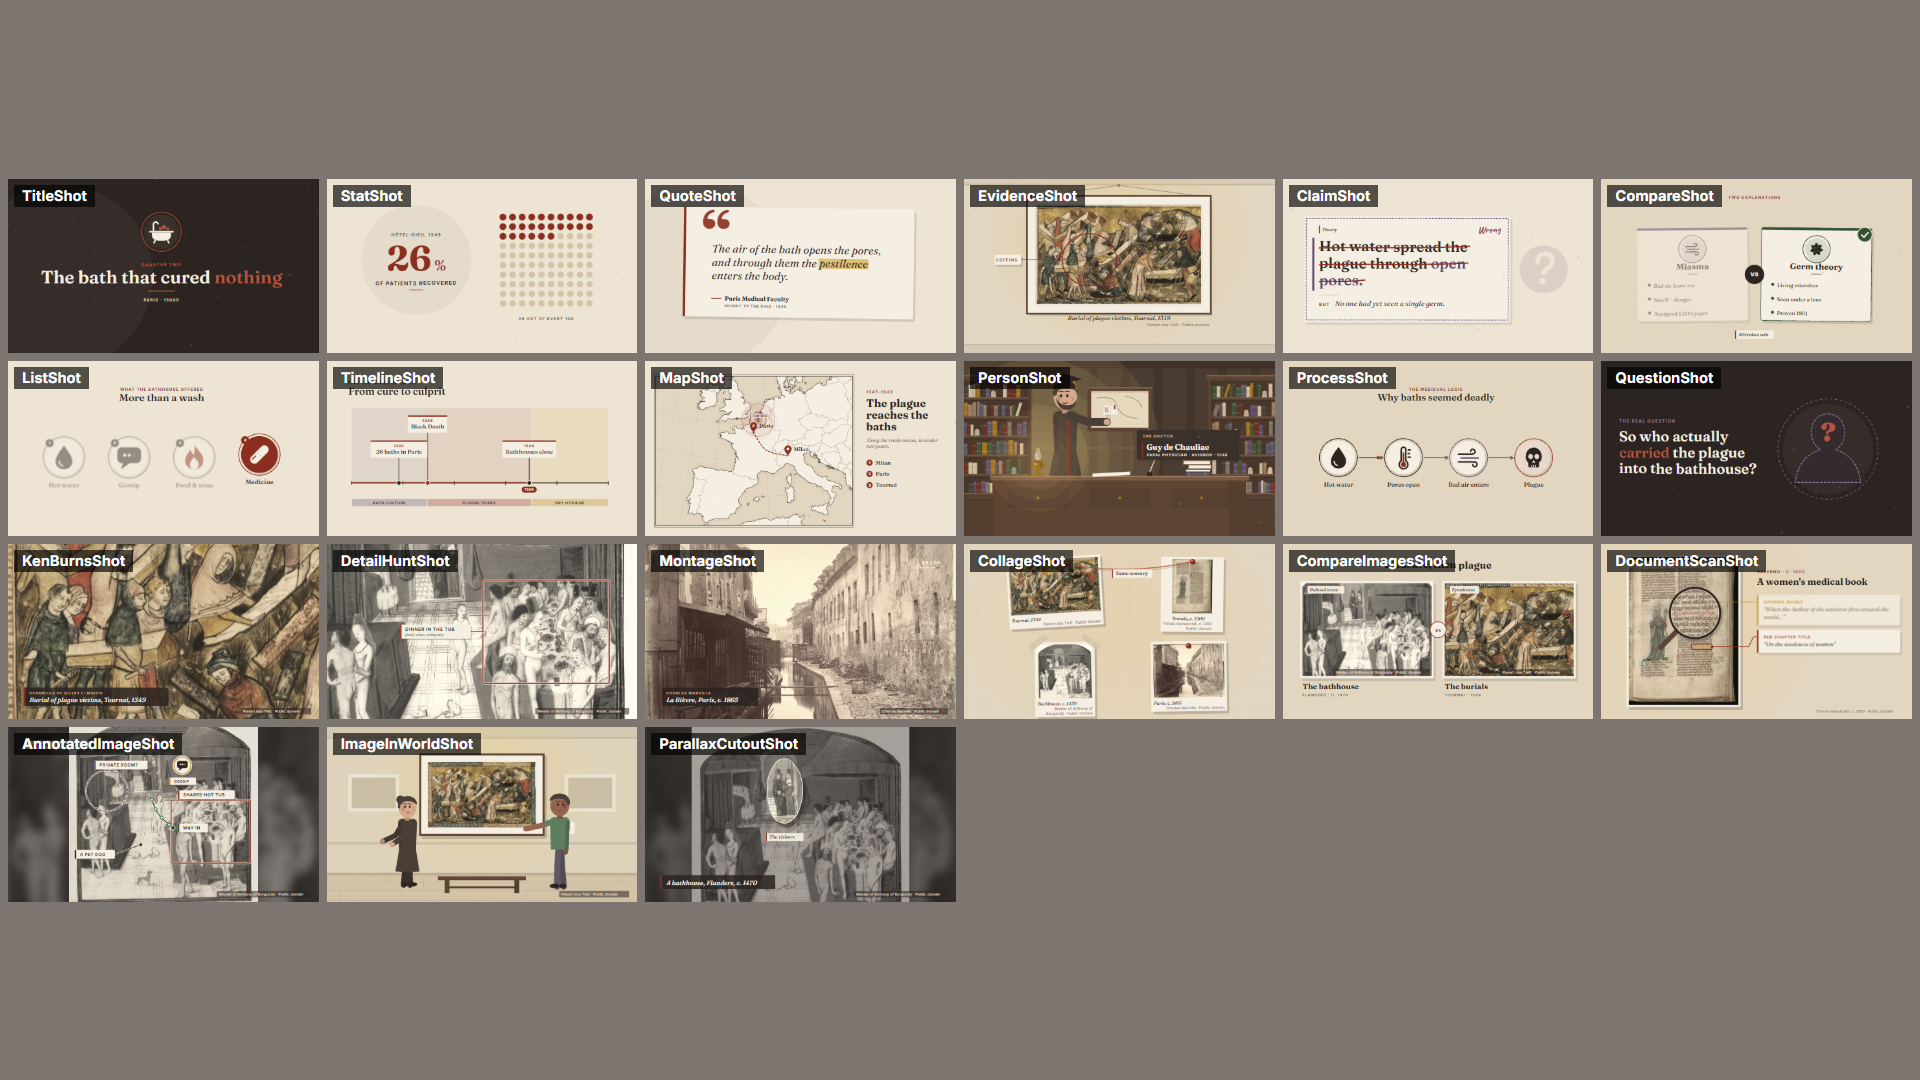
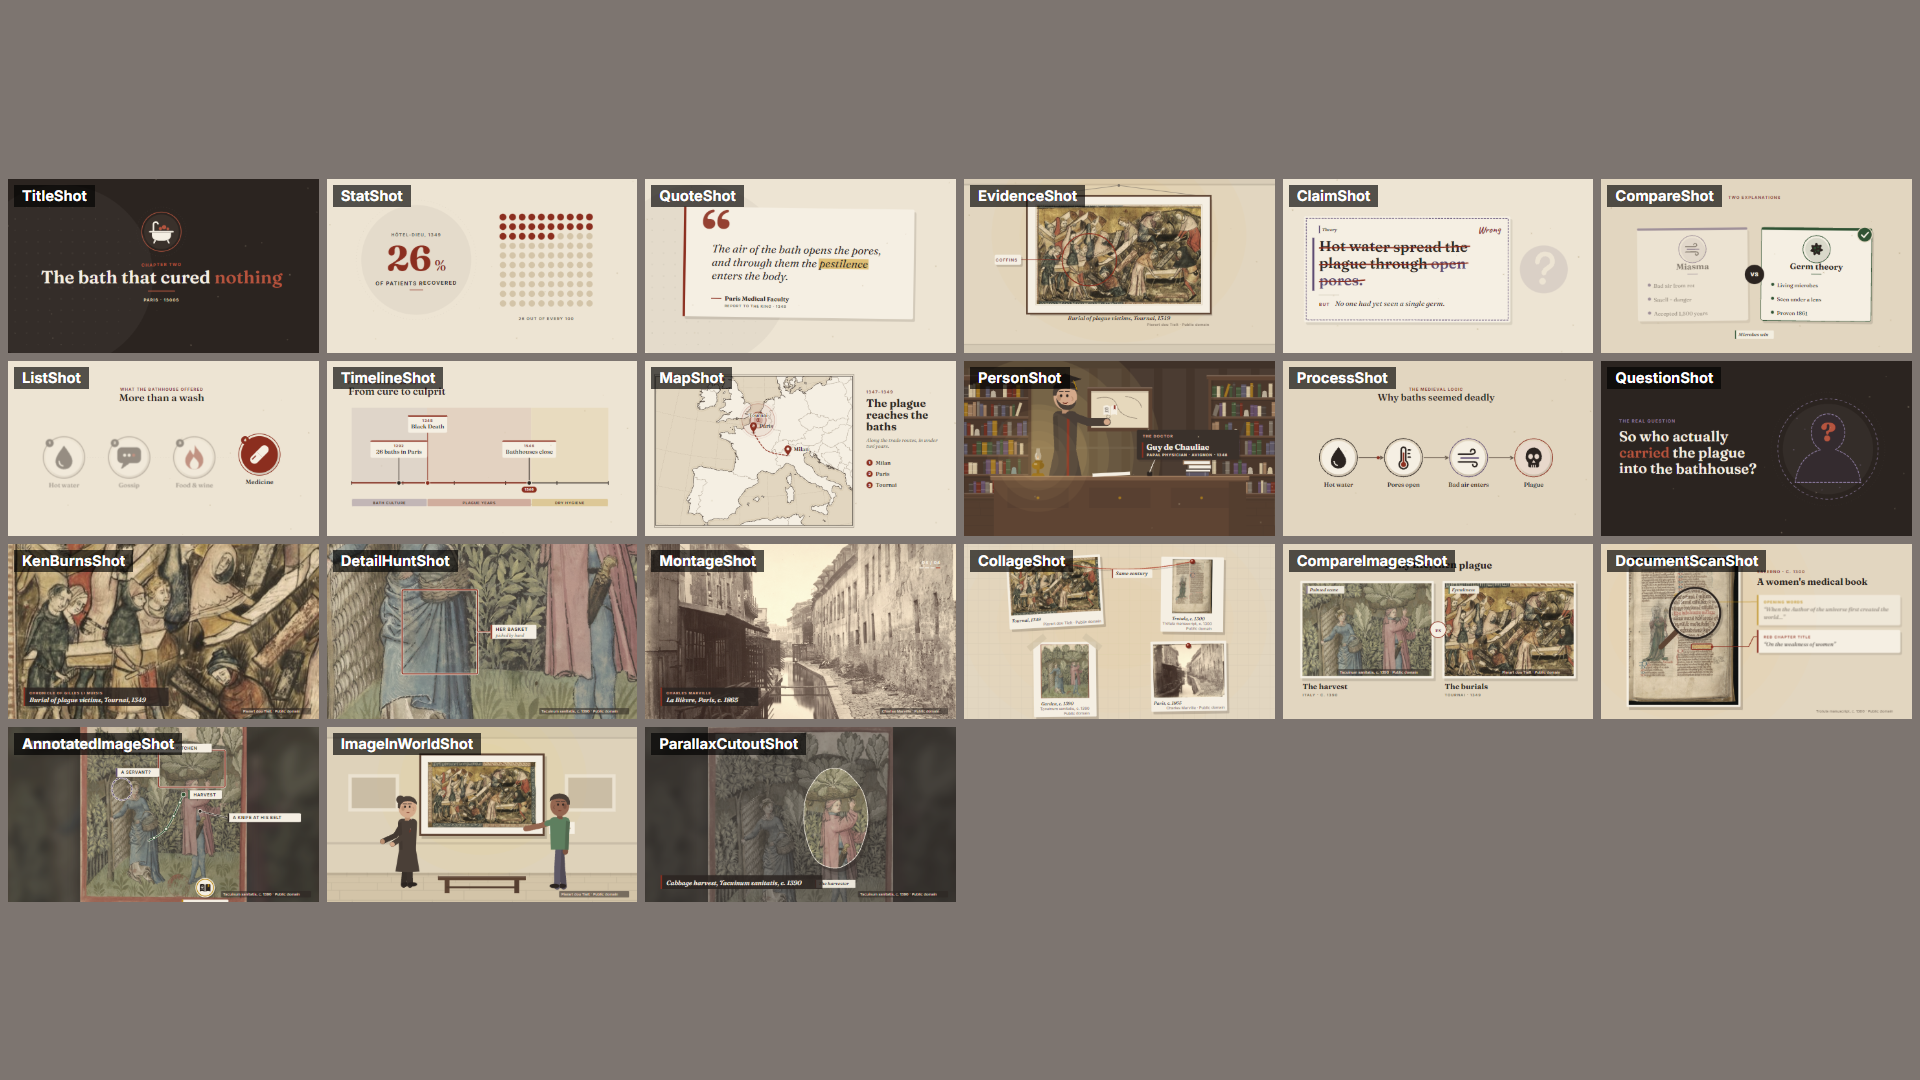
YouTube-safe reference pictures: replace nude bathhouse demo image with a clothed Tacuinum sanitatis scene; showcase teaches red pen + yellow marker; example brief notes the safety check

diff --git a/src/gallery/pages/archival.tsx b/src/gallery/pages/archival.tsx
@@ -16,7 +16,8 @@ import {
 // page "archival2" (same page shifted by 28 s: stills at 3.5 and 7.5 there). Test images: public/test-dinos/img/.
 const S = 'test-dinos';
 const TOURNAI = {src: 'img/tournai.jpg', aspect: 801 / 482, credit: 'Pierart dou Tielt · Public domain'};
-const BATH = {src: 'img/bathhouse.jpg', aspect: 1690 / 1653, credit: 'Master of Anthony of Burgundy · Public domain'};
+// square-ish test image (exercises the framed full-height path) — YouTube-safe: clothed figures only
+const HARV = {src: 'img/harvest.jpg', aspect: 2613 / 2905, credit: 'Tacuinum sanitatis, c. 1390 · Public domain'};
 const MS = {src: 'img/manuscript.jpg', aspect: 1920 / 2578, credit: 'Trotula manuscript, c. 1300 · Public domain'};
 const MARV = {src: 'img/marville.jpg', aspect: 1920 / 1455, credit: 'Charles Marville · Public domain'};
 
@@ -41,10 +42,10 @@ const SHOTS: ((t: number, a: number, b: number) => React.ReactNode)[] = [
       a={a}
       b={b}
       slug={S}
-      {...BATH}
+      {...HARV}
       details={[
-        {rx: 0.42, ry: 0.26, rw: 0.17, rh: 0.25, label: 'Guests arrive', note: 'dressed — for now', at: a + 0.2, kind: 'ink'},
-        {rx: 0.73, ry: 0.5, rw: 0.36, rh: 0.3, label: 'Dinner in the tub', note: 'food, wine, company', at: a + 1.8, kind: 'signal', shape: 'box'},
+        {rx: 0.67, ry: 0.28, rw: 0.4, rh: 0.2, label: 'Cabbages on his head', note: 'the harvest of the day', at: a + 0.2, kind: 'ink'},
+        {rx: 0.41, ry: 0.67, rw: 0.14, rh: 0.14, label: 'Her basket', note: 'picked by hand', at: a + 1.8, kind: 'signal', shape: 'box'},
       ]}
       returnAt={false}
     />
@@ -60,7 +61,7 @@ const SHOTS: ((t: number, a: number, b: number) => React.ReactNode)[] = [
       items={[
         {...TOURNAI},
         {...MS, from: [0.5, 0.3, 1.0], to: [0.5, 0.36, 1.1]},
-        {...BATH},
+        {...HARV},
         {...MARV, caption: 'La Bièvre, Paris, c. 1865', kicker: 'Charles Marville'},
       ]}
       cuts={[a, a + 0.8, a + 1.6, a + 2.4]}
@@ -75,7 +76,7 @@ const SHOTS: ((t: number, a: number, b: number) => React.ReactNode)[] = [
       items={[
         {...TOURNAI, label: 'Tournai, 1349'},
         {...MS, label: 'Trotula, c. 1300'},
-        {...BATH, label: 'Bathhouse, c. 1470'},
+        {...HARV, label: 'Garden, c. 1390'},
         {...MARV, label: 'Paris, c. 1865'},
       ]}
       gap={0.3}
@@ -88,8 +89,8 @@ const SHOTS: ((t: number, a: number, b: number) => React.ReactNode)[] = [
       a={a}
       b={b}
       slug={S}
-      title="Pleasure, then plague"
-      left={{...BATH, label: 'The bathhouse', sub: 'Flanders · c. 1470', tag: {text: 'Painted scene', kind: 'theory'}}}
+      title="Daily life, then plague"
+      left={{...HARV, label: 'The harvest', sub: 'Italy · c. 1390', tag: {text: 'Painted scene', kind: 'theory'}}}
       right={{...TOURNAI, label: 'The burials', sub: 'Tournai · 1349', tag: {text: 'Eyewitness', kind: 'confirmed'}}}
       at={a + 0.1}
       rightAt={a + 0.7}
@@ -116,16 +117,16 @@ const SHOTS: ((t: number, a: number, b: number) => React.ReactNode)[] = [
       a={a}
       b={b}
       slug={S}
-      {...BATH}
-      kicker="Inside a bathhouse"
+      {...HARV}
+      kicker="A medieval health handbook"
       from={[0.5, 0.55, 1.0]}
       to={[0.5, 0.55, 1.06]}
       overlays={[
-        {kind: 'outline', rx: 0.75, ry: 0.62, rw: 0.42, rh: 0.34, shape: 'box', label: 'Shared hot tub', sem: 'signal', at: a + 0.3},
-        {kind: 'outline', rx: 0.2, ry: 0.4, rw: 0.22, rh: 0.22, dashed: true, label: 'Private room?', at: a + 0.8},
-        {kind: 'flow', points: [[0.43, 0.42], [0.47, 0.52], [0.55, 0.6]], label: 'Way in', sem: 'evidence', at: a + 1.2, dur: 0.9},
-        {kind: 'icon', rx: 0.6, ry: 0.26, icon: 'speech', label: 'Gossip', sem: 'caution', at: a + 1.7},
-        {kind: 'label', rx: 0.38, ry: 0.69, text: 'A pet dog', sem: 'ink', at: a + 2.0, dx: -160, dy: 60},
+        {kind: 'outline', rx: 0.67, ry: 0.28, rw: 0.4, rh: 0.2, shape: 'box', label: 'Cabbages for the kitchen', sem: 'signal', at: a + 0.3},
+        {kind: 'outline', rx: 0.25, ry: 0.39, rw: 0.12, rh: 0.12, dashed: true, label: 'A servant?', at: a + 0.8},
+        {kind: 'flow', points: [[0.41, 0.67], [0.52, 0.6], [0.62, 0.42]], label: 'Harvest', sem: 'evidence', at: a + 1.2, dur: 0.9},
+        {kind: 'icon', rx: 0.75, ry: 0.92, icon: 'book', label: 'Library stamp', sem: 'caution', at: a + 1.7},
+        {kind: 'label', rx: 0.72, ry: 0.51, text: 'A knife at his belt', sem: 'ink', at: a + 2.0, dx: 170, dy: 40},
       ]}
     />
   ),
@@ -136,13 +137,13 @@ const SHOTS: ((t: number, a: number, b: number) => React.ReactNode)[] = [
       a={a}
       b={b}
       slug={S}
-      {...BATH}
-      cut={{rx: 0.355, ry: 0.15, rw: 0.15, rh: 0.28, shape: 'ellipse'}}
-      from={[0.4, 0.3, 1.15]}
-      to={[0.52, 0.34, 1.22]}
-      label={{text: 'The visitors', kind: 'signal'}}
+      {...HARV}
+      cut={{rx: 0.52, ry: 0.2, rw: 0.32, rh: 0.45, shape: 'ellipse'}}
+      from={[0.6, 0.4, 1.1]}
+      to={[0.66, 0.42, 1.18]}
+      label={{text: 'The harvester', kind: 'signal'}}
       at={a + 0.6}
-      caption="A bathhouse, Flanders, c. 1470"
+      caption="Cabbage harvest, Tacuinum sanitatis, c. 1390"
     />
   ),
 ];

diff --git a/src/gallery/pages/text.tsx b/src/gallery/pages/text.tsx
@@ -1,8 +1,9 @@
 import React from 'react';
 import {Stage} from '../../kit/stage';
-import {C} from '../../kit/theme';
+import {C, FONT_SERIF} from '../../kit/theme';
 import {ramp} from '../../kit/anim';
-import {Circled, HandNote, Headline, Highlight, Kicker, NameTag, Para, Stamp, Stat, Tag, TitleCard, Underline} from '../../kit/text';
+import {Circled, HandNote, Headline, Highlight, Kicker, NameTag, RedPen, Stamp, Stat, Tag, TitleCard, Underline, textW} from '../../kit/text';
+import {RichText} from '../../kit/templates';
 
 // Typography showcase. Everything settles by t = 3 s.
 export const Text: React.FC<{t: number}> = ({t}) => (
@@ -15,9 +16,14 @@ export const Text: React.FC<{t: number}> = ({t}) => (
     <Tag x={120} y={410} text="Confirmed" kind="confirmed" p={ramp(t, 0.5, 1.5)} />
     <Tag x={380} y={410} text="Theory" kind="theory" p={ramp(t, 0.7, 1.7)} />
     <Tag x={590} y={410} text="Debated" kind="caution" p={ramp(t, 0.9, 1.9)} />
-    <Para x={120} y={480} w={680} p={ramp(t, 0.8, 1.8)} size={34} text="Physicians prescribed baths for fevers, joint pain and headaches, adjusting the temperature." />
+    {/* key words get the yellow marker (preferred over plain paragraphs) */}
+    <RichText x={120} y={468} w={700} h={170} p={ramp(t, 0.8, 1.8)} size={34} weight={500} mode="fade" text="Physicians prescribed baths for fevers, joint pain and headaches, adjusting the temperature." mark={['fevers', 'joint', 'pain', 'headaches']} markP={ramp(t, 1.8, 2.6)} />
     <NameTag x={120} y={720} name="Ibn al-Khatib" sub="Physician · Granada · 1349" p={ramp(t, 1, 2)} />
-    <Stamp x={1500} y={170} text="Mostly wrong" p={ramp(t, 1.2, 1.7)} />
+    {/* Binly default verdict: the editor's red pen */}
+    <text x={1150} y={150} fontFamily={FONT_SERIF} fontWeight={600} fontSize={54} fill={C.ink} opacity={ramp(t, 0.2, 0.8)}>Baths spread the plague.</text>
+    <RedPen lines={[{x: 1150, y: 137, w: textW('Baths spread the plague.', 54, 'serif') * 0.98}]} note="mostly wrong!" noteX={1420} noteY={222} p={ramp(t, 1.0, 2.2)} />
+    {/* rubber stamp: only for the rare biggest verdict */}
+    <Stamp x={720} y={735} text="Rare" size={30} rot={-8} p={ramp(t, 2.4, 2.8)} />
     <Stat x={1440} y={470} value="0.061" unit="%" label="of all surgeries" p={ramp(t, 0.5, 2.5)} color={C.oxblood} />
     <Stat x={1440} y={760} value="505,000" label="intraocular surgeries" p={ramp(t, 0.5, 2.5)} size={130} />
     <Circled x={1450} y={400} rx={330} ry={108} p={ramp(t, 2.2, 3)} />

diff --git a/docs/KIT.md b/docs/KIT.md
@@ -124,8 +124,8 @@ type Detail = {rx, ry (centre), rw, rh, label, note?, at?, kind?: Sem, shape?: '
 <DetailHuntShot {...base} slug src aspect? details: Detail[] returnAt?: number|false (default b−1.4) kicker? caption? credit? at? />
 ```
 ```tsx
-<DetailHuntShot t={t} a={T.d} b={T.e} slug="medieval-baths" src="img/bathhouse.jpg" aspect={1690/1653}
-  details={[{rx:0.42, ry:0.26, rw:0.17, rh:0.25, label:'Guests arrive', at:T.door}, {rx:0.73, ry:0.5, rw:0.36, rh:0.3, label:'Dinner in the tub', shape:'box', at:T.tub}]}/>
+<DetailHuntShot t={t} a={T.d} b={T.e} slug="medieval-baths" src="img/harvest.jpg" aspect={2613/2905}
+  details={[{rx:0.67, ry:0.28, rw:0.4, rh:0.2, label:'Cabbages on his head', at:T.basket}, {rx:0.41, ry:0.67, rw:0.14, rh:0.14, label:'Her basket', shape:'box', at:T.pick}]}/>
 ```
 Allow ≥ 1.6 s per detail (punch 1 s, mark +0.6, label +0.9).
 
@@ -138,7 +138,7 @@ type MontageItem = {src, aspect?, credit?, caption?, kicker?, from?: Focus, to?:
 ```
 ```tsx
 <MontageShot t={t} a={T.m} b={T.n} slug="medieval-baths" transition="cut" cuts={[T.m, T.b1, T.b2, T.b3]}
-  items={[{src:'img/tournai.jpg', aspect:801/482, credit:'…'}, {src:'img/bath.jpg', aspect:1.02, credit:'…', caption:'Bathhouse, c. 1470'}]}/>
+  items={[{src:'img/tournai.jpg', aspect:801/482, credit:'…'}, {src:'img/harvest.jpg', aspect:2613/2905, credit:'…', caption:'Cabbage harvest, c. 1390'}]}/>
 ```
 
 ## CollageShot
@@ -192,7 +192,7 @@ type Overlay =
 <AnnotatedImageShot {...base} slug src aspect? overlays from? to? dim?=0.12 kicker? caption? credit? at? gap?=0.5 />
 ```
 ```tsx
-<AnnotatedImageShot t={t} a={T.a} b={T.b} slug="medieval-baths" src="img/bath.jpg" aspect={1.02} overlays={[
+<AnnotatedImageShot t={t} a={T.a} b={T.b} slug="medieval-baths" src="img/harvest.jpg" aspect={2613/2905} overlays={[
   {kind:'outline', rx:0.75, ry:0.62, rw:0.42, rh:0.34, shape:'box', label:'Shared hot tub', at:T.tub},
   {kind:'flow', points:[[0.43,0.42],[0.47,0.52],[0.55,0.6]], label:'Way in', sem:'evidence', at:T.walk}]}/>
 ```
@@ -219,7 +219,7 @@ type Cut = {rx, ry (TOP-LEFT), rw, rh, shape?: 'rect'|'ellipse'} | {points: [rx,
   label?: {text, kind?, at?} kicker? caption? credit? at? (default a+0.5) />
 ```
 ```tsx
-<ParallaxCutoutShot t={t} a={T.p} b={T.q} slug="medieval-baths" src="img/bath.jpg" aspect={1.02} from={[0.4,0.3,1.15]} to={[0.52,0.34,1.22]}
+<ParallaxCutoutShot t={t} a={T.p} b={T.q} slug="medieval-baths" src="img/harvest.jpg" aspect={2613/2905} from={[0.4,0.3,1.15]} to={[0.52,0.34,1.22]}
   cut={{rx:0.355, ry:0.15, rw:0.15, rh:0.28, shape:'ellipse'}} label={{text:'The visitors'}} at={T.lift}/>
 ```
 

diff --git a/docs/kit/archival.md b/docs/kit/archival.md
@@ -33,8 +33,8 @@ type Detail = {rx, ry (centre), rw, rh, label, note?, at?, kind?: Sem, shape?: '
 <DetailHuntShot {...base} slug src aspect? details: Detail[] returnAt?: number|false (default b−1.4) kicker? caption? credit? at? />
 ```
 ```tsx
-<DetailHuntShot t={t} a={T.d} b={T.e} slug="medieval-baths" src="img/bathhouse.jpg" aspect={1690/1653}
-  details={[{rx:0.42, ry:0.26, rw:0.17, rh:0.25, label:'Guests arrive', at:T.door}, {rx:0.73, ry:0.5, rw:0.36, rh:0.3, label:'Dinner in the tub', shape:'box', at:T.tub}]}/>
+<DetailHuntShot t={t} a={T.d} b={T.e} slug="medieval-baths" src="img/harvest.jpg" aspect={2613/2905}
+  details={[{rx:0.67, ry:0.28, rw:0.4, rh:0.2, label:'Cabbages on his head', at:T.basket}, {rx:0.41, ry:0.67, rw:0.14, rh:0.14, label:'Her basket', shape:'box', at:T.pick}]}/>
 ```
 Allow ≥ 1.6 s per detail (punch 1 s, mark +0.6, label +0.9).
 
@@ -47,7 +47,7 @@ type MontageItem = {src, aspect?, credit?, caption?, kicker?, from?: Focus, to?:
 ```
 ```tsx
 <MontageShot t={t} a={T.m} b={T.n} slug="medieval-baths" transition="cut" cuts={[T.m, T.b1, T.b2, T.b3]}
-  items={[{src:'img/tournai.jpg', aspect:801/482, credit:'…'}, {src:'img/bath.jpg', aspect:1.02, credit:'…', caption:'Bathhouse, c. 1470'}]}/>
+  items={[{src:'img/tournai.jpg', aspect:801/482, credit:'…'}, {src:'img/harvest.jpg', aspect:2613/2905, credit:'…', caption:'Cabbage harvest, c. 1390'}]}/>
 ```
 
 ## CollageShot
@@ -101,7 +101,7 @@ type Overlay =
 <AnnotatedImageShot {...base} slug src aspect? overlays from? to? dim?=0.12 kicker? caption? credit? at? gap?=0.5 />
 ```
 ```tsx
-<AnnotatedImageShot t={t} a={T.a} b={T.b} slug="medieval-baths" src="img/bath.jpg" aspect={1.02} overlays={[
+<AnnotatedImageShot t={t} a={T.a} b={T.b} slug="medieval-baths" src="img/harvest.jpg" aspect={2613/2905} overlays={[
   {kind:'outline', rx:0.75, ry:0.62, rw:0.42, rh:0.34, shape:'box', label:'Shared hot tub', at:T.tub},
   {kind:'flow', points:[[0.43,0.42],[0.47,0.52],[0.55,0.6]], label:'Way in', sem:'evidence', at:T.walk}]}/>
 ```
@@ -128,6 +128,6 @@ type Cut = {rx, ry (TOP-LEFT), rw, rh, shape?: 'rect'|'ellipse'} | {points: [rx,
   label?: {text, kind?, at?} kicker? caption? credit? at? (default a+0.5) />
 ```
 ```tsx
-<ParallaxCutoutShot t={t} a={T.p} b={T.q} slug="medieval-baths" src="img/bath.jpg" aspect={1.02} from={[0.4,0.3,1.15]} to={[0.52,0.34,1.22]}
+<ParallaxCutoutShot t={t} a={T.p} b={T.q} slug="medieval-baths" src="img/harvest.jpg" aspect={2613/2905} from={[0.4,0.3,1.15]} to={[0.52,0.34,1.22]}
   cut={{rx:0.355, ry:0.15, rw:0.15, rh:0.28, shape:'ellipse'}} label={{text:'The visitors'}} at={T.lift}/>
 ```

diff --git a/videos/test-dinos/CREDITS.md b/videos/test-dinos/CREDITS.md
@@ -2,5 +2,8 @@
 
 - Doutielt3.jpg — Pierart dou Tielt (fl. 1340-1360) — Public domain — via Wikimedia Commons: https://commons.wikimedia.org/wiki/File:Doutielt3.jpg
 - Trota of Sallerno manuscript.jpg — Richard of Salerno — Public domain — via Wikimedia Commons: https://commons.wikimedia.org/wiki/File:Trota_of_Sallerno_manuscript.jpg
-- Badehaus Valerius Maximus.jpg — The original uploader was Dinah at German Wikipedia. — Public domain — via Wikimedia Commons: https://commons.wikimedia.org/wiki/File:Badehaus_Valerius_Maximus.jpg
 - Charles Marville, La Bièvre, ca. 1865.jpg — Charles Marville — Public domain — via Wikimedia Commons: https://commons.wikimedia.org/wiki/File:Charles_Marville,_La_Bi%C3%A8vre,_ca._1865.jpg
+- Tyrannosaurus silhouette — Aiden Gauthier — CC BY 4.0 — via Wikimedia Commons: https://www.phylopic.org/images/832a47bd-0cd4-4b0e-af7b-db9d7ff81867
+- Iguanodon bernissartensis silhouette — Matthew Dempsey — CC BY 4.0 — via Wikimedia Commons: https://www.phylopic.org/images/aa1fb8ea-9cfe-429d-9b22-942a224cd74d
+- Escherichia coli silhouette — Arcadia Science — Public domain (CC0/PDM) — via Wikimedia Commons: https://www.phylopic.org/images/27d35deb-98bb-4833-8121-8750f35cd09b
+- Tacuinum Sanitatis-cabbage harvest.jpg — Ibn Butlan — Public domain — via Wikimedia Commons: https://commons.wikimedia.org/wiki/File:Tacuinum_Sanitatis-cabbage_harvest.jpg

diff --git a/docs/EXAMPLE-BRIEF.md b/docs/EXAMPLE-BRIEF.md
@@ -26,7 +26,8 @@ Specify the WHAT precisely; leave the HOW (exact curves, small details, polish) 
 - IN: paper slide from right. DONE WHEN: each label lands within 0.2 s of its word.
 
 **S4 [01:46.0–01:53.2] "In Paris, there were enough public baths that some streets were named after them."** — template EvidenceShot
-- IMAGE: `img/paris-bathhouse.jpg` (fetched in planning; manuscript bath scene), caption "A bathhouse, Paris, 15th century", credit from CREDITS.md.
+- IMAGE: `img/paris-bathhouse.jpg` (fetched in planning; manuscript scene of the bathhouse EXTERIOR and street — looked at:
+  YouTube-safe, clothed figures only), caption "A bathhouse, Paris, 15th century", credit from CREDITS.md.
 - MARK: the street-name sign region on "named after them". TAG: "Documented" (confirmed).
 - DONE WHEN: the camera ends close on the marked detail as the sentence ends.
 
